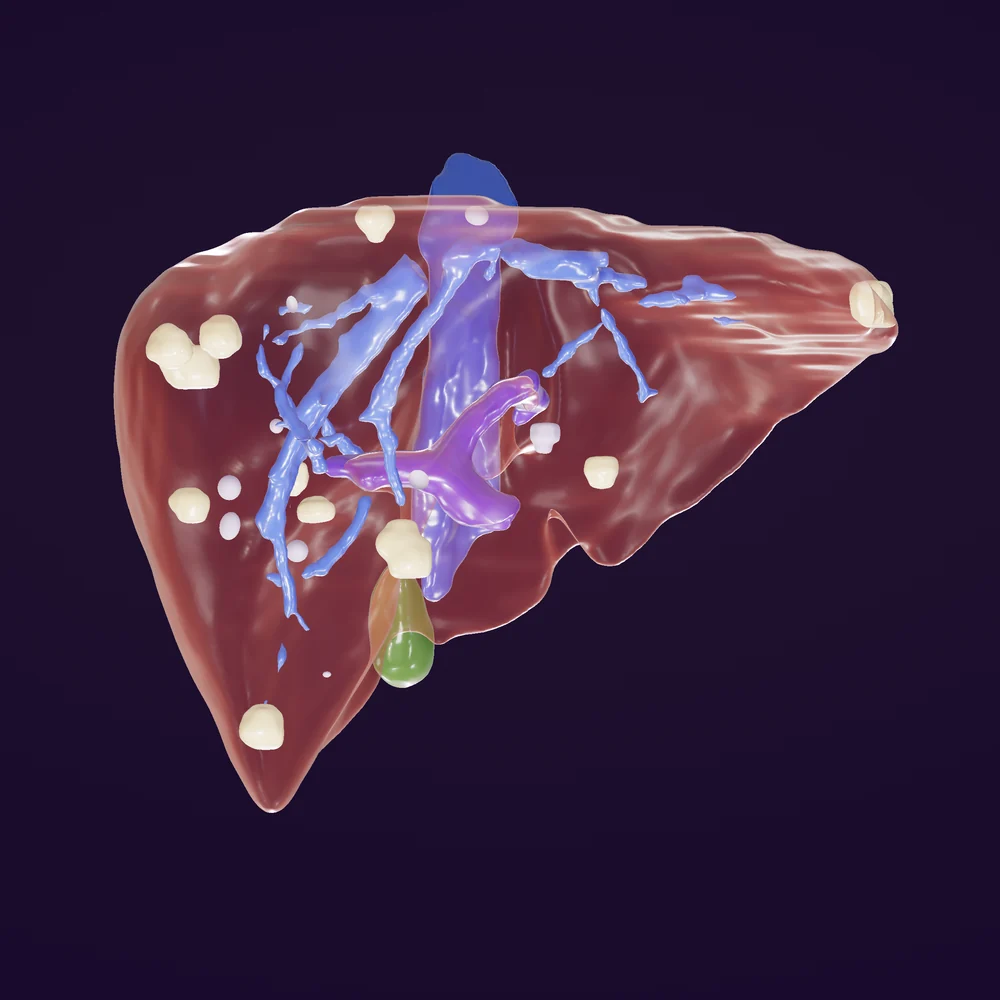
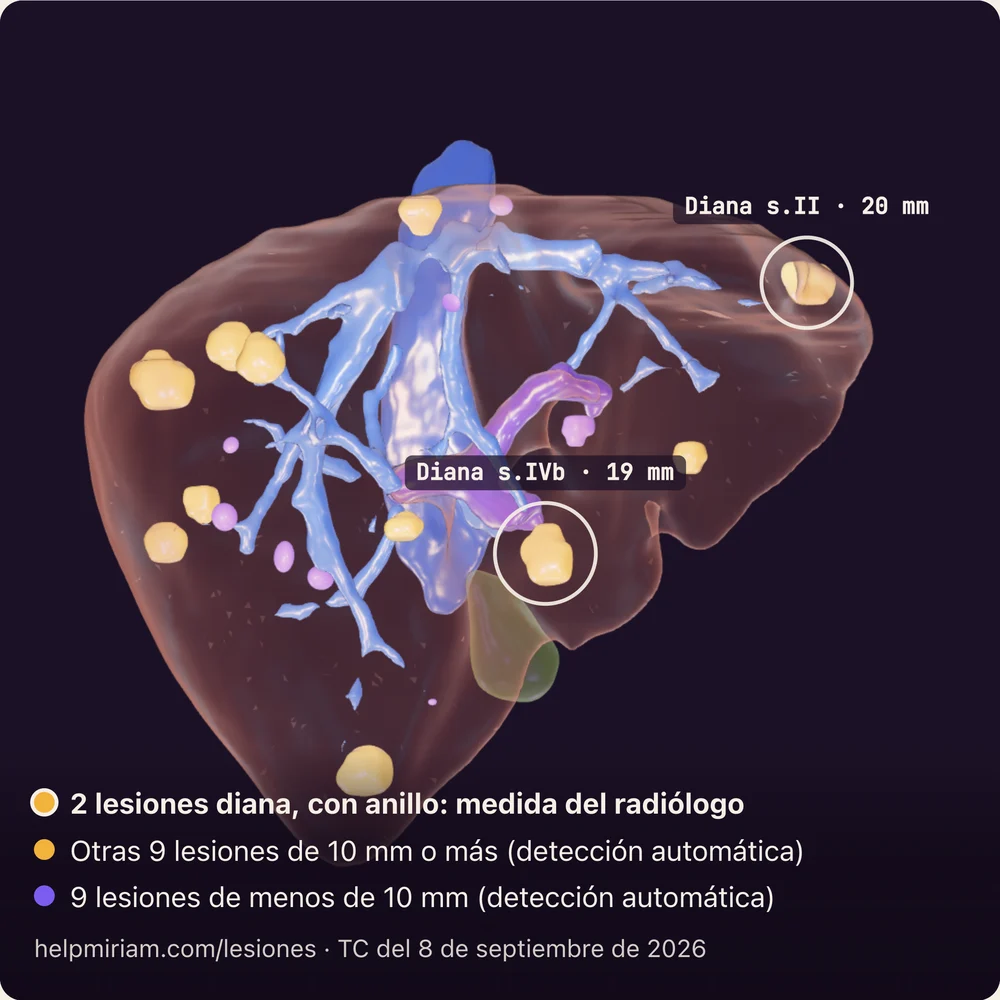
La imagen de respaldo del hígado ya no se lee como «20 metástasis»
La imagen que se sirve cuando el visor 3D no arranca enseñaba una veintena de
bultos claros, todos iguales, sin anillo, sin rótulo y sin leyenda. Y cuando el
visor falla, la leyenda de debajo tampoco se pinta (`v-if="!failed"`), así que
esa imagen se quedaba sola. Lo mismo pasa cuando alguien la comparte suelta o
cuando viaja en la vista previa de un enlace.

El informe radiológico dice «múltiples imágenes nodulares hepáticas», sin
contar. Solo hay DOS lesiones con medida de radiólogo; las otras dieciocho son
segmentación automática sin validar. La imagen anterior no permitía notar la
diferencia, y de ahí a «tiene veinte metástasis en el hígado» hay un paso.

La nueva es una captura del propio visor, con sus dos anillos rotulados (s.II
20 mm, s.IVb 19 mm) y la leyenda quemada dentro: 2 dianas del radiólogo, 9
detecciones automáticas de 10 mm o más, 9 de menos de 10 mm. Abajo, la URL y la
fecha del estudio, para que la imagen diga de dónde sale vaya donde vaya.

El texto alternativo también lo dice ahora, que es lo único que oye quien usa
lector de pantalla cuando el visor no arranca.

diff --git a/app/pages/lesiones.vue b/app/pages/lesiones.vue
@@ -87,7 +87,7 @@ const biopsia = computed(() =>
             <div class="mb-3">
               <ClientOnly>
                 <LiverView base="/lesiones/higado/" fallback="/lesiones/higado-2026-09-08.webp"
-                  :fallback-alt="L('Reconstrucción 3D del hígado de Miriam desde su TC del 8 de septiembre de 2026, con los vasos y todas las lesiones', '3D reconstruction of Miriam’s liver from her 8 September 2026 CT, with the vessels and all the lesions')" />
+                  :fallback-alt="L('Reconstrucción 3D del hígado de Miriam desde su TC del 8 de septiembre de 2026, con los vasos y las lesiones: dos lesiones diana con anillo y la medida del radiólogo (segmento II, 20 mm; segmento IVb, 19 mm) y el resto por detección automática sin validar', '3D reconstruction of Miriam’s liver from her 8 September 2026 CT, with the vessels and the lesions: two ringed target lesions with the radiologist’s measurement (segment II, 20 mm; segment IVb, 19 mm) and the rest from automatic detection, not validated')" />
                 <template #fallback>
                   <div class="rounded-xl flex items-center justify-center text-[12px]" style="aspect-ratio:1/1;background:#1c1126;color:#aeb6c2">
                     {{ L('cargando visor…', 'loading viewer…') }}
